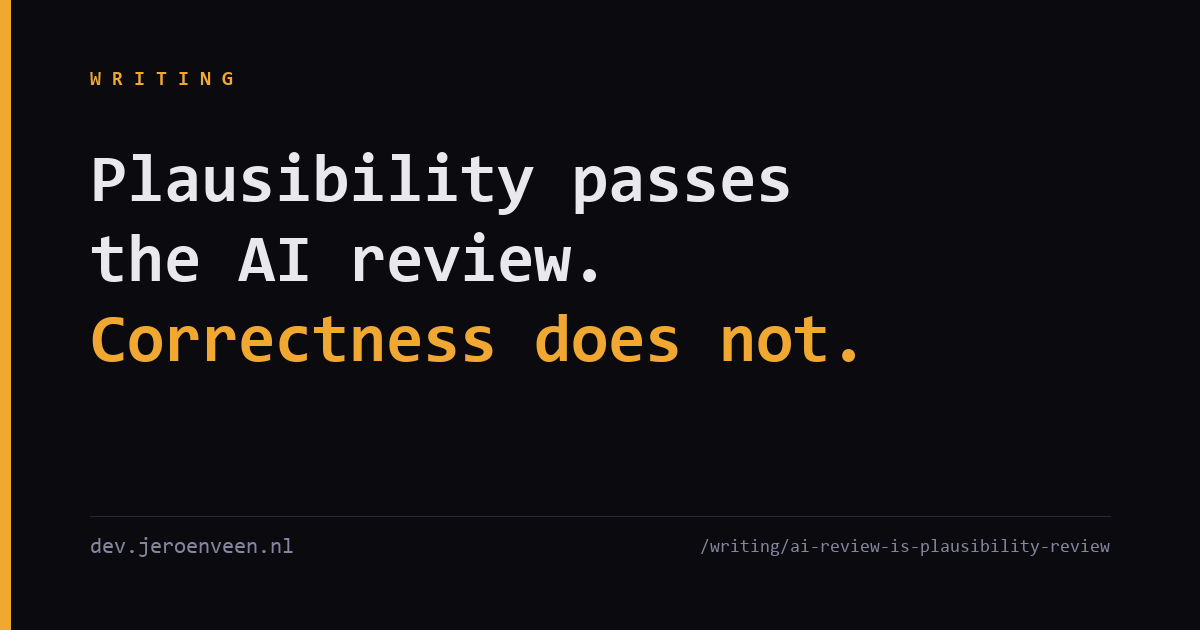
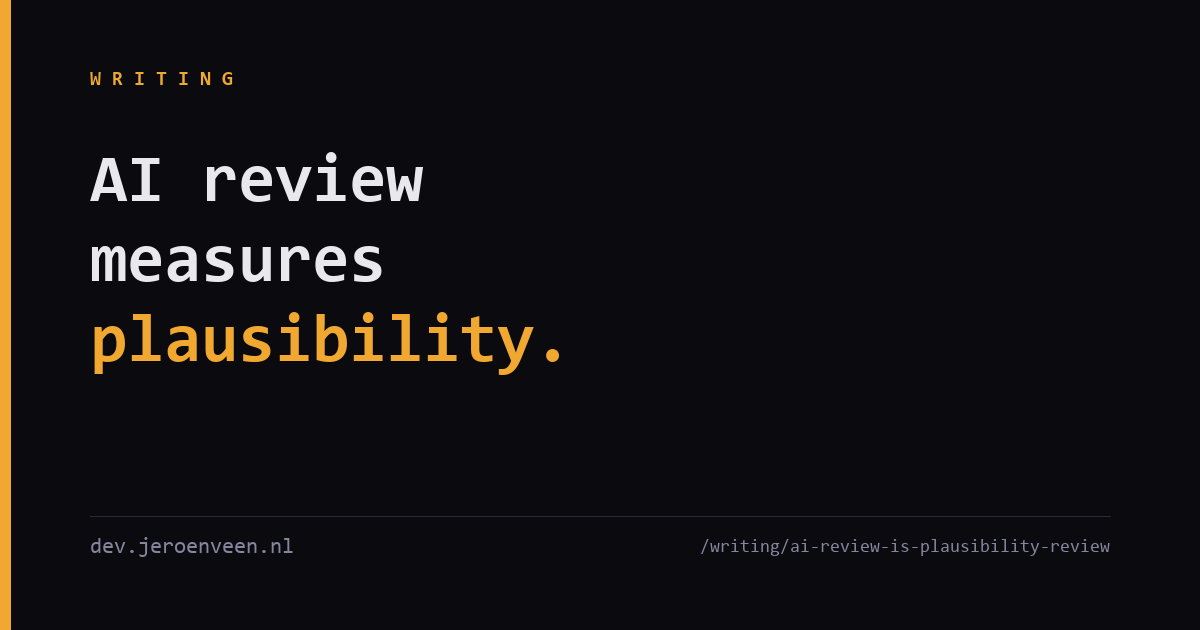
writing: retitle "AI review measures plausibility." + tighten bug paragraph
Retitle the 5 June piece from "Plausibility passes the AI review. Correctness does not."
to "AI review measures plausibility." — matches the V&V arc's sentence-form register
("The model is not the grader.", "Verification is a workflow problem.").

Other copy edits:
- Drop "pendulum" from the chapter list (domain-irrelevant to a verification post)
- Cut the parenthetical "controlled variable was the mode of instruction" sentence;
  audit-doc link survives in the Sources block
- Compress the three-bugs paragraph from eleven sentences to five: numbers as
  subjects, label-mismatch + dwell-time collapsed into one parallel pair,
  the self-contradicting bug foregrounded as the rhetorical close.
  Magnitudes preserved without domain detail ("optimistic by a factor;
  nearly an order of magnitude too small").

Aligned artifacts:
- gen-social-image.py headline + regenerated OG PNG with new 3-line layout
  (third-line "plausibility." in amber)
- verification record heading

Slug + URL unchanged.

Changed region(s): [[0.0617, 0.2413, 0.6783, 0.3619], [0.0617, 0.4825, 0.7092, 0.6032], [0.0617, 0.3619, 0.4933, 0.4524]]

diff --git a/src/data/writing.ts b/src/data/writing.ts
@@ -9,7 +9,7 @@ export interface Article {
 export const articles: Article[] = [
   {
     slug: 'ai-review-is-plausibility-review',
-    title: 'Plausibility passes the AI review. Correctness does not.',
+    title: 'AI review measures plausibility.',
     excerpt:
       'In a 68-equation theory document, two AI reviews in assessment mode caught zero errors. A third pass with the same model family but a reproduction instruction caught three. AI review is plausibility review unless you make it not be.',
     date: '2026-06-05',

diff --git a/scripts/gen-social-image.py b/scripts/gen-social-image.py
@@ -45,9 +45,9 @@ def render(out_path: Path) -> None:
     head_font = font(head_size, bold=True)
     line_h = int(head_size * 1.18)
     headline = [
-        "Plausibility passes",
-        "the AI review.",
-        "Correctness does not.",
+        "AI review",
+        "measures",
+        "plausibility.",
     ]
     head_y = PAD_T + 80
     for i, line in enumerate(headline):

diff --git a/docs/verification/ai-review-is-plausibility-review.md b/docs/verification/ai-review-is-plausibility-review.md
@@ -1,4 +1,4 @@
-# Verification record: *Plausibility passes the AI review. Correctness does not.*
+# Verification record: *AI review measures plausibility.*
 
 **Article:** `drafts/ai-review-is-plausibility-review.md` (status: DRAFT awaiting promotion to `src/pages/writing/ai-review-is-plausibility-review.astro`)
 **Article slug:** `ai-review-is-plausibility-review`